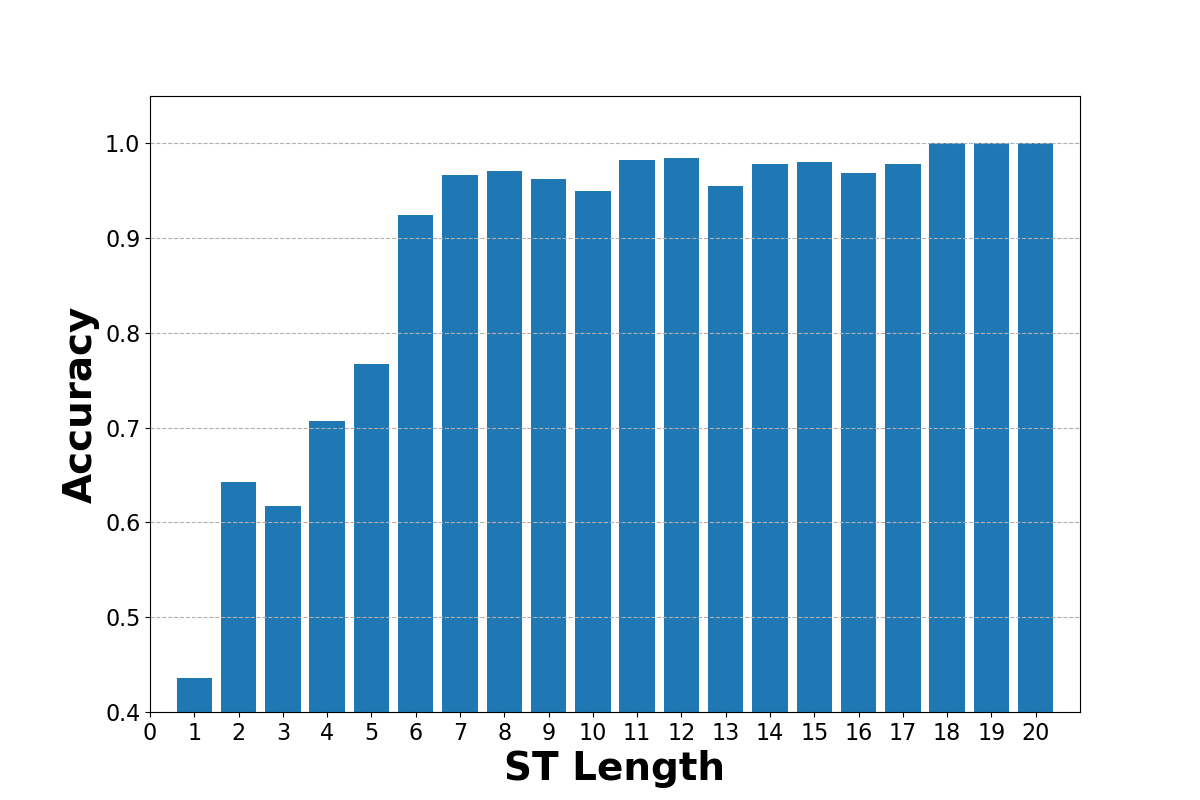
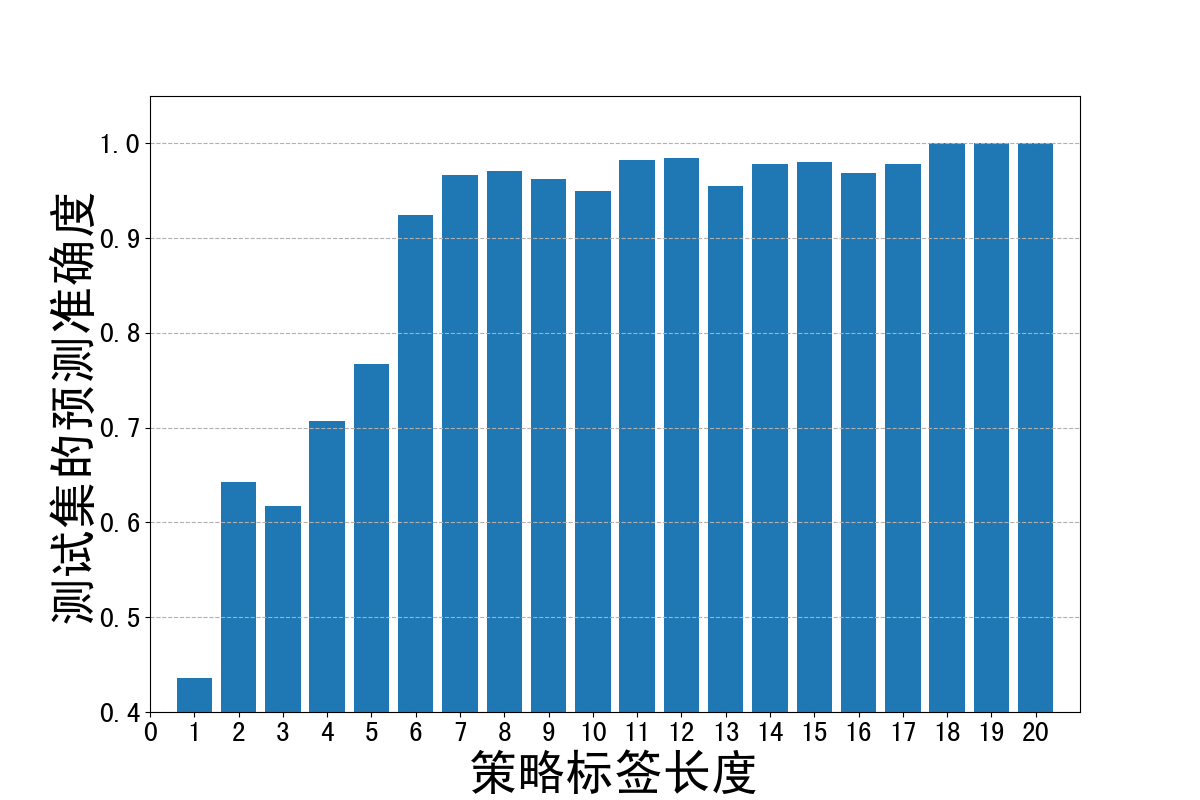
update_fig_chinese

diff --git a/packages/alg/draw.py b/packages/alg/draw.py
@@ -36,17 +36,21 @@ class ResultCurve:
         self.draw_var = True
 
     def save_plot(self, filename):
+        # 设置中文字体
+        plt.rcParams['font.sans-serif'] = ['SimHei']  # 设置中文显示
+        plt.rcParams['axes.unicode_minus'] = False    # 解决负号显示问题
+
         # 设置图形尺寸和标题
         plt.figure(figsize=(12, 8))
         # plt.title("Results Comparison")
 
         # 绘制基准线和 PPO 奖励曲线
+        plt.plot(self.time_points, self.ppo_results, color='blue', linewidth=2, label="PPO 筛选")
+        plt.plot(self.time_points, [self.all for _ in range(self.steps)], color='orange', linewidth=3, label="无筛选")
+        plt.plot(self.time_points, [self.random_select for _ in range(self.steps)], color='pink', linewidth=3, label="随机选择")
         # plt.plot(self.time_points, [self.optimal for _ in range(self.steps)], color='red', linewidth=3, label="Optimal")
-        plt.plot(self.time_points, [self.greedy for _ in range(self.steps)], color='green', linewidth=3, label="Greedy Select")
-        plt.plot(self.time_points, [self.all for _ in range(self.steps)], color='orange', linewidth=3, label="All Candidates")
+        plt.plot(self.time_points, [self.greedy for _ in range(self.steps)], color='green', linewidth=3, label="贪心选择")
         # plt.plot(self.time_points, [self.random_action for _ in range(self.steps)], label="Random Action")
-        plt.plot(self.time_points, [self.random_select for _ in range(self.steps)], color='pink', linewidth=3, label="Random Select")
-        plt.plot(self.time_points, self.ppo_results, color='blue', linewidth=2, label="PPO Select")
 
         if self.draw_var:
             # 填充两根线之间的区域
@@ -57,12 +61,12 @@ class ResultCurve:
         # plt.xlim(0, 1000)
 
         # 添加图例和坐标轴标签
-        plt.legend(loc='lower right', fontsize=16)
-        plt.xlabel("Training Step", fontsize=24, weight='bold')
-        plt.ylabel("Social Welfare", fontsize=24, weight='bold')
+        plt.legend(loc='lower right', fontsize=25)
+        plt.xlabel("训练次数（20,000 组探索/次训练）", fontsize=35, weight='bold')
+        plt.ylabel("单个时隙的平均社会福利值", fontsize=35, weight='bold')
 
-        plt.tick_params(axis='x', labelsize=16)
-        plt.tick_params(axis='y', labelsize=16)
+        plt.tick_params(axis='x', labelsize=20)
+        plt.tick_params(axis='y', labelsize=20)
 
         # 保存图像到指定位置
         plt.savefig(filename)

diff --git a/train_eval_net.py b/train_eval_net.py
@@ -57,17 +57,21 @@ def draw_dif_tl():
 
     tls = list(range(1, 21))
 
+    # 设置中文字体
+    plt.rcParams['font.sans-serif'] = ['SimHei']  # 设置中文显示
+    plt.rcParams['axes.unicode_minus'] = False    # 解决负号显示问题
+
     plt.figure(figsize=(12, 8))
 
     plt.bar(tls, val_accuracy_list, label='Validate Dataset', zorder=1)
     
     # 添加图例和坐标轴标签
     # plt.legend(loc='lower right', fontsize=16)
-    plt.xlabel("ST Length", fontsize=28, weight='bold')
-    plt.ylabel("Accuracy", fontsize=28, weight='bold')
+    plt.xlabel("策略标签长度", fontsize=35, weight='bold')
+    plt.ylabel("测试集的预测准确度", fontsize=35, weight='bold')
 
-    plt.tick_params(axis='x', labelsize=16)
-    plt.tick_params(axis='y', labelsize=16)
+    plt.tick_params(axis='x', labelsize=20)
+    plt.tick_params(axis='y', labelsize=20)
 
     plt.ylim(0.4, 1.05)
     plt.xlim(0, 21)
